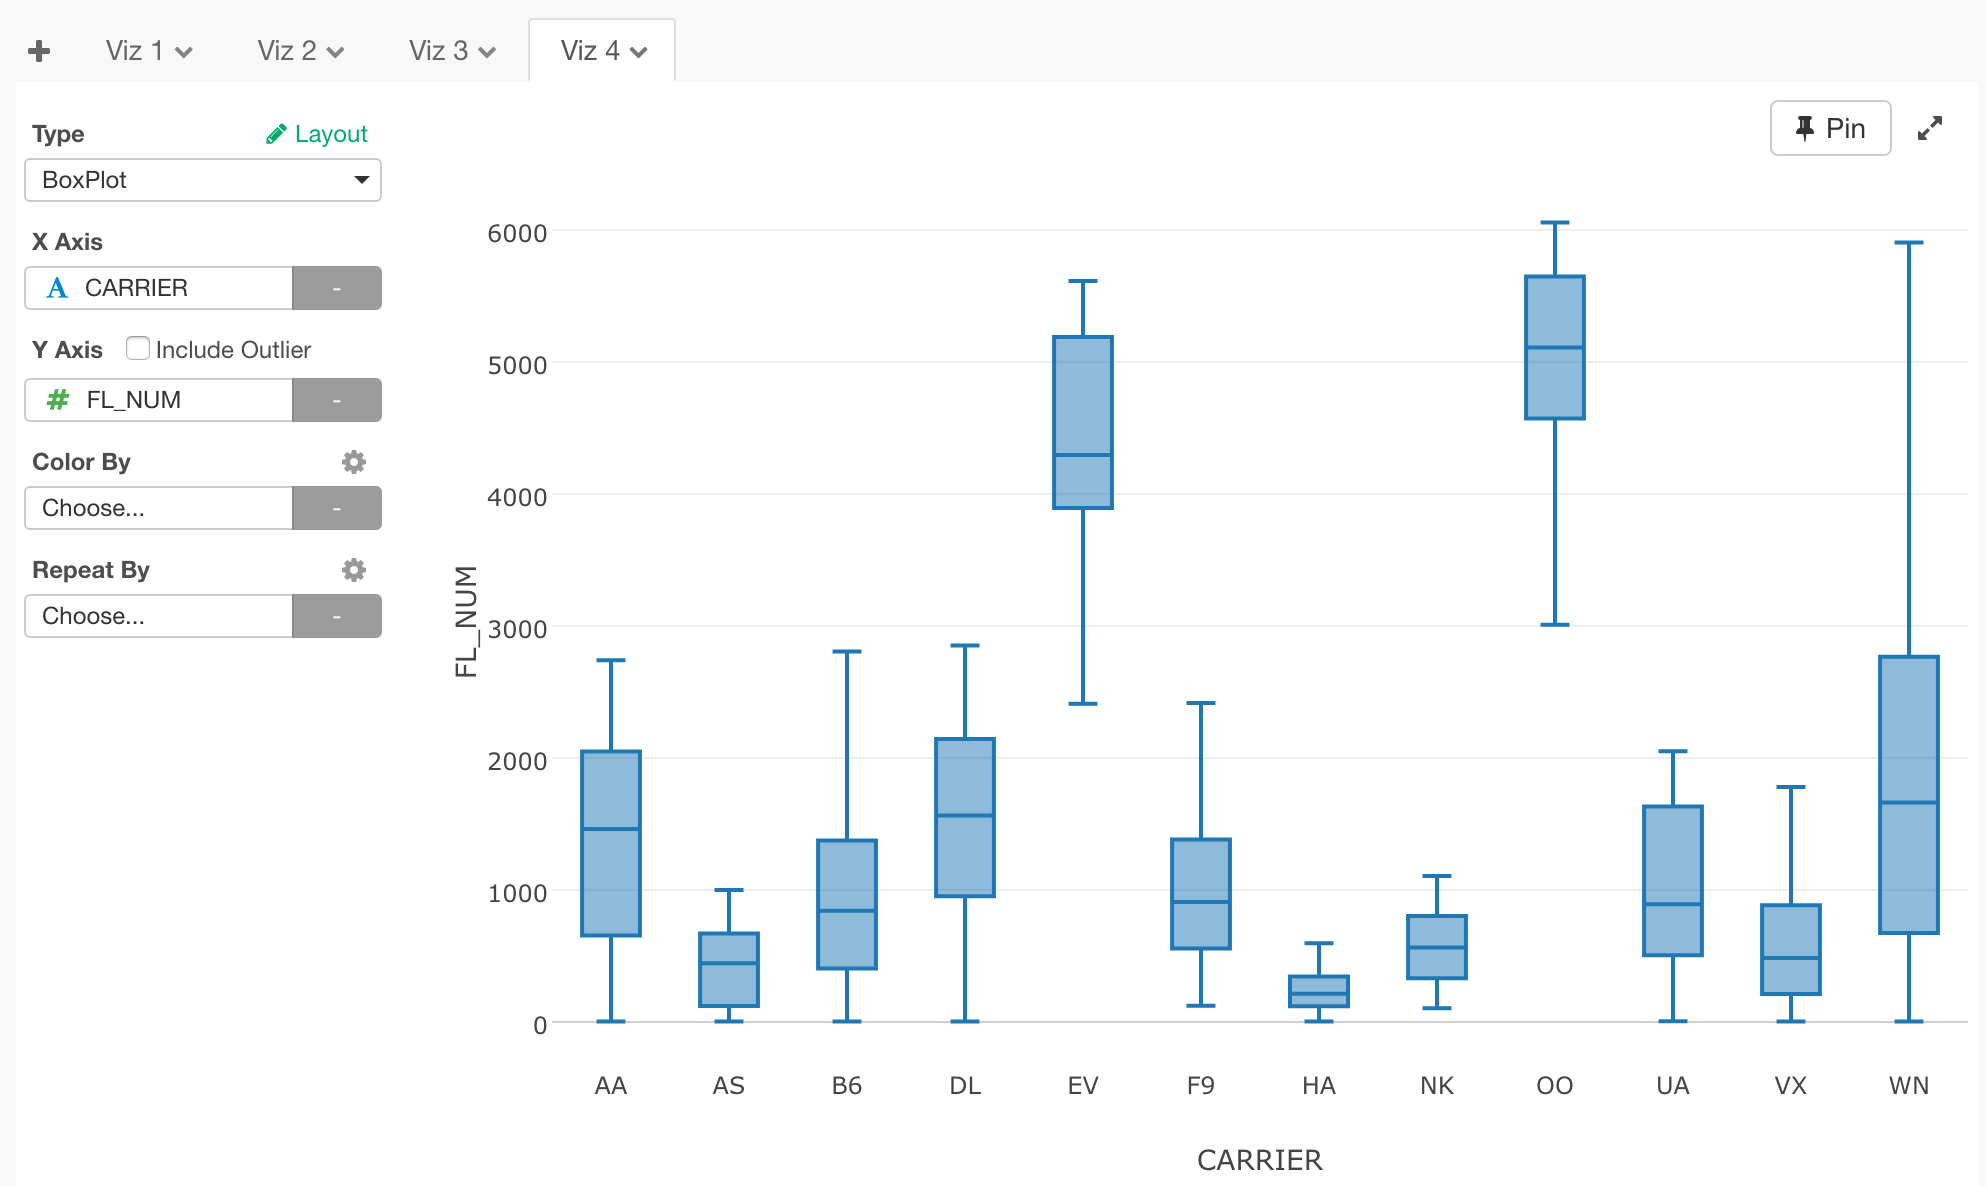
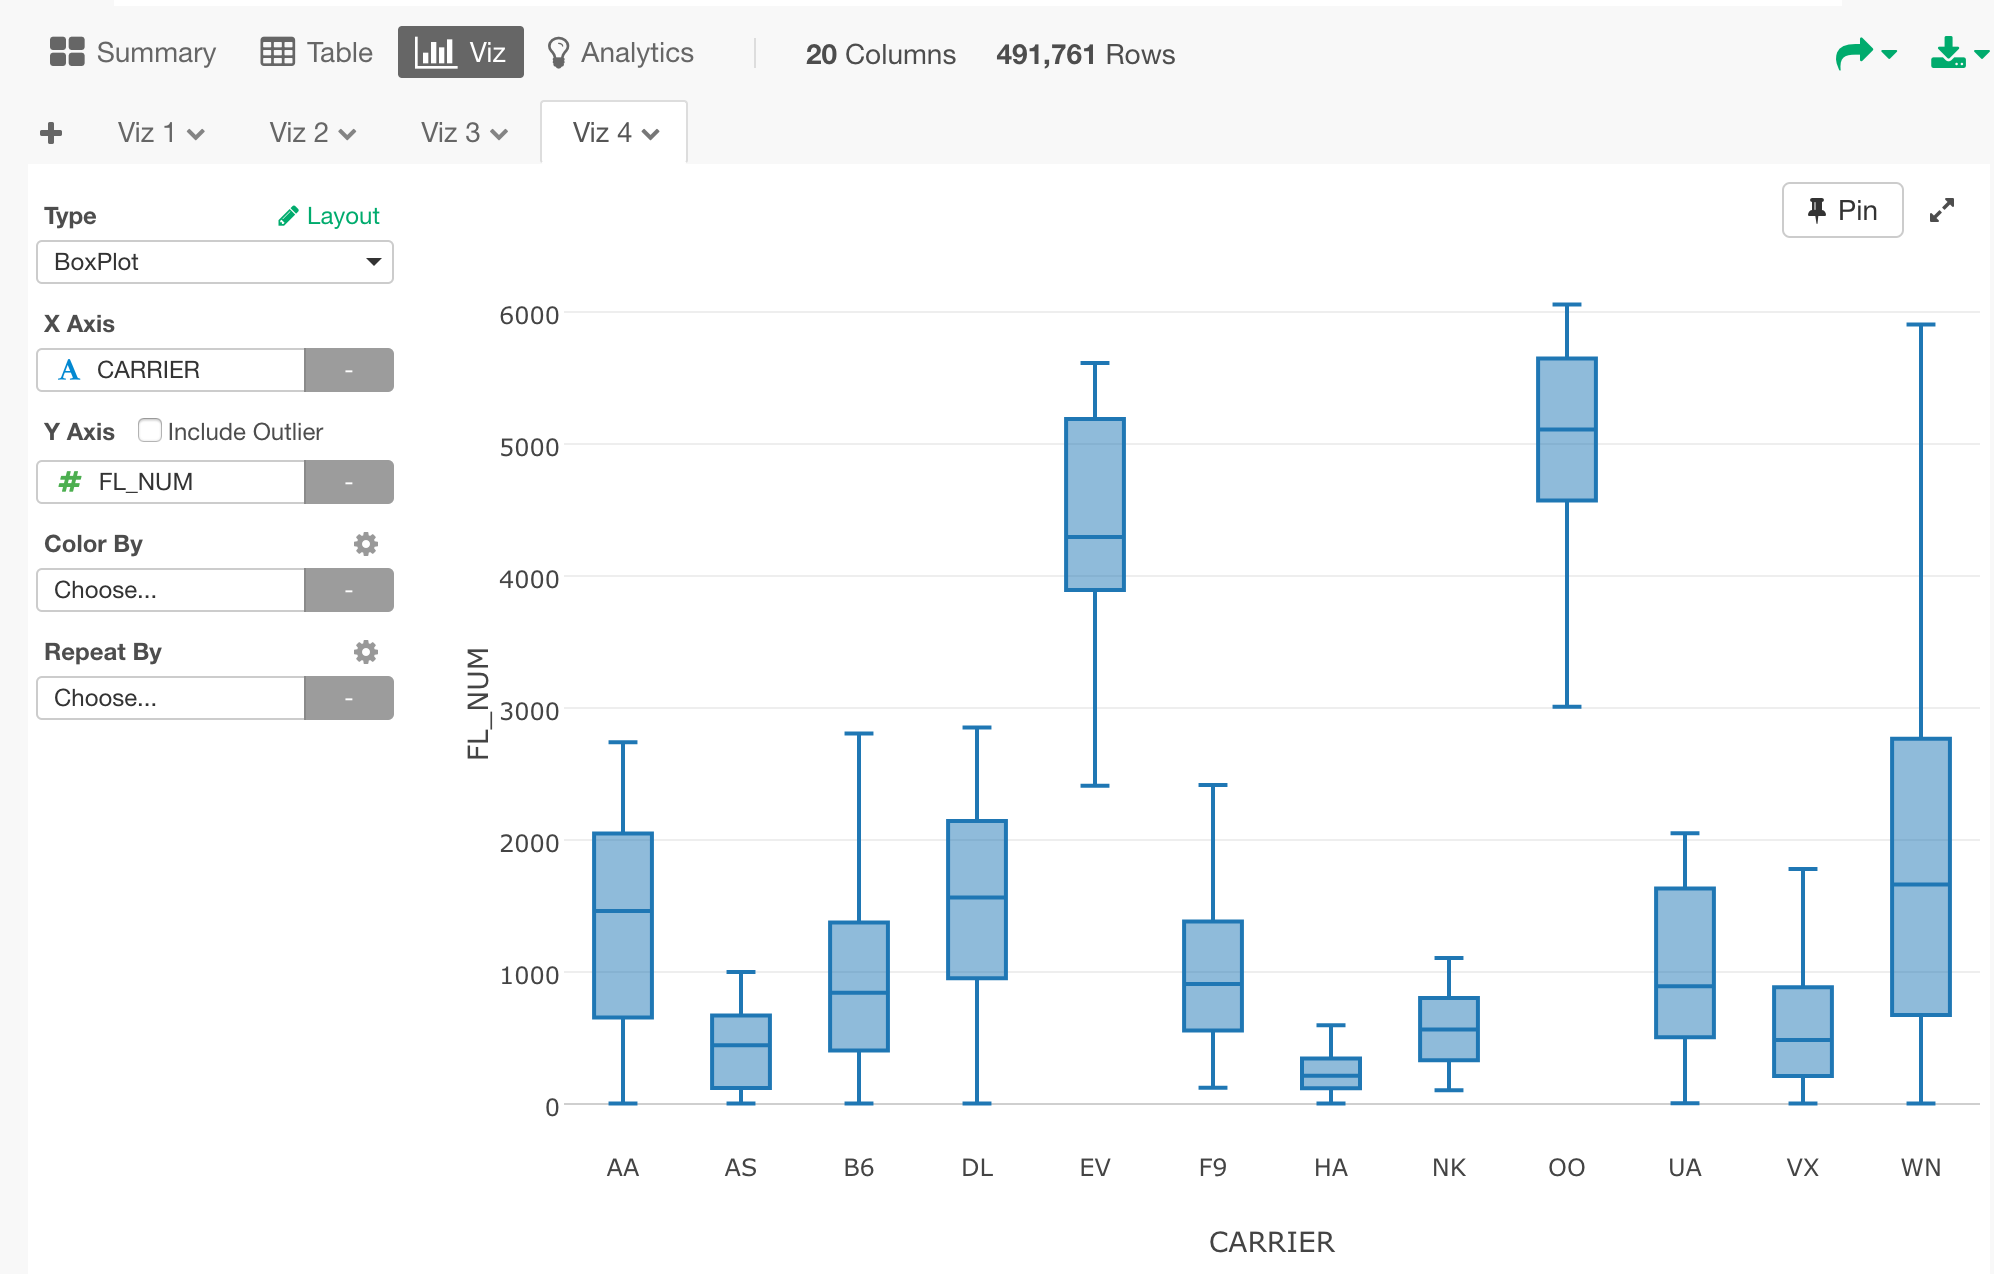
text update.

diff --git a/tutorials/quick-start.md b/tutorials/quick-start.md
@@ -574,12 +574,12 @@ And if you click "Prediction Matrix", you can see the chances of making errors s
 
 ![](images/quick-start-analytics-variable-importance-7.png)
 
-Now Let's check these two carriers EV and OO with boxplot using the FL_NUM column.
+Now Let's switch view from Analytics to Viz and check these two carriers EV and OO with boxplot using the FL_NUM column.
 To do so, click Viz tab and create a boxplot by selecting CARRIER as X Axis and FL_BUM as Y-AXIS. And you'll get the chart like this.
 
 ![](images/quick-start-analytics-variable-importance-8.png)
 
-And the chart clearly shows that carrier EV and OO are sitting on the top of the chart while other carriers are sitting on bottom. This pattern precisely aligns with the results of "Model quality" and "Prediction Matrix" we observed for Variable Importance Analytics. As you can see here, with "Variable Importance Analytics" feature, you can find these patterns easily and quickly without manually iterating many times. 
+And the chart clearly shows that carrier EV and OO are sitting on the top of the chart while other carriers are sitting on bottom. This pattern precisely aligns with the results of "Model quality" and "Prediction Matrix" we observed for Variable Importance Analytics. As you can see here, with "Variable Importance Analytics" feature, you can find these patterns easily and quickly without manually iterating each column as Y Axis on the boxplo. 
 
 
 ### K-means Clustering
